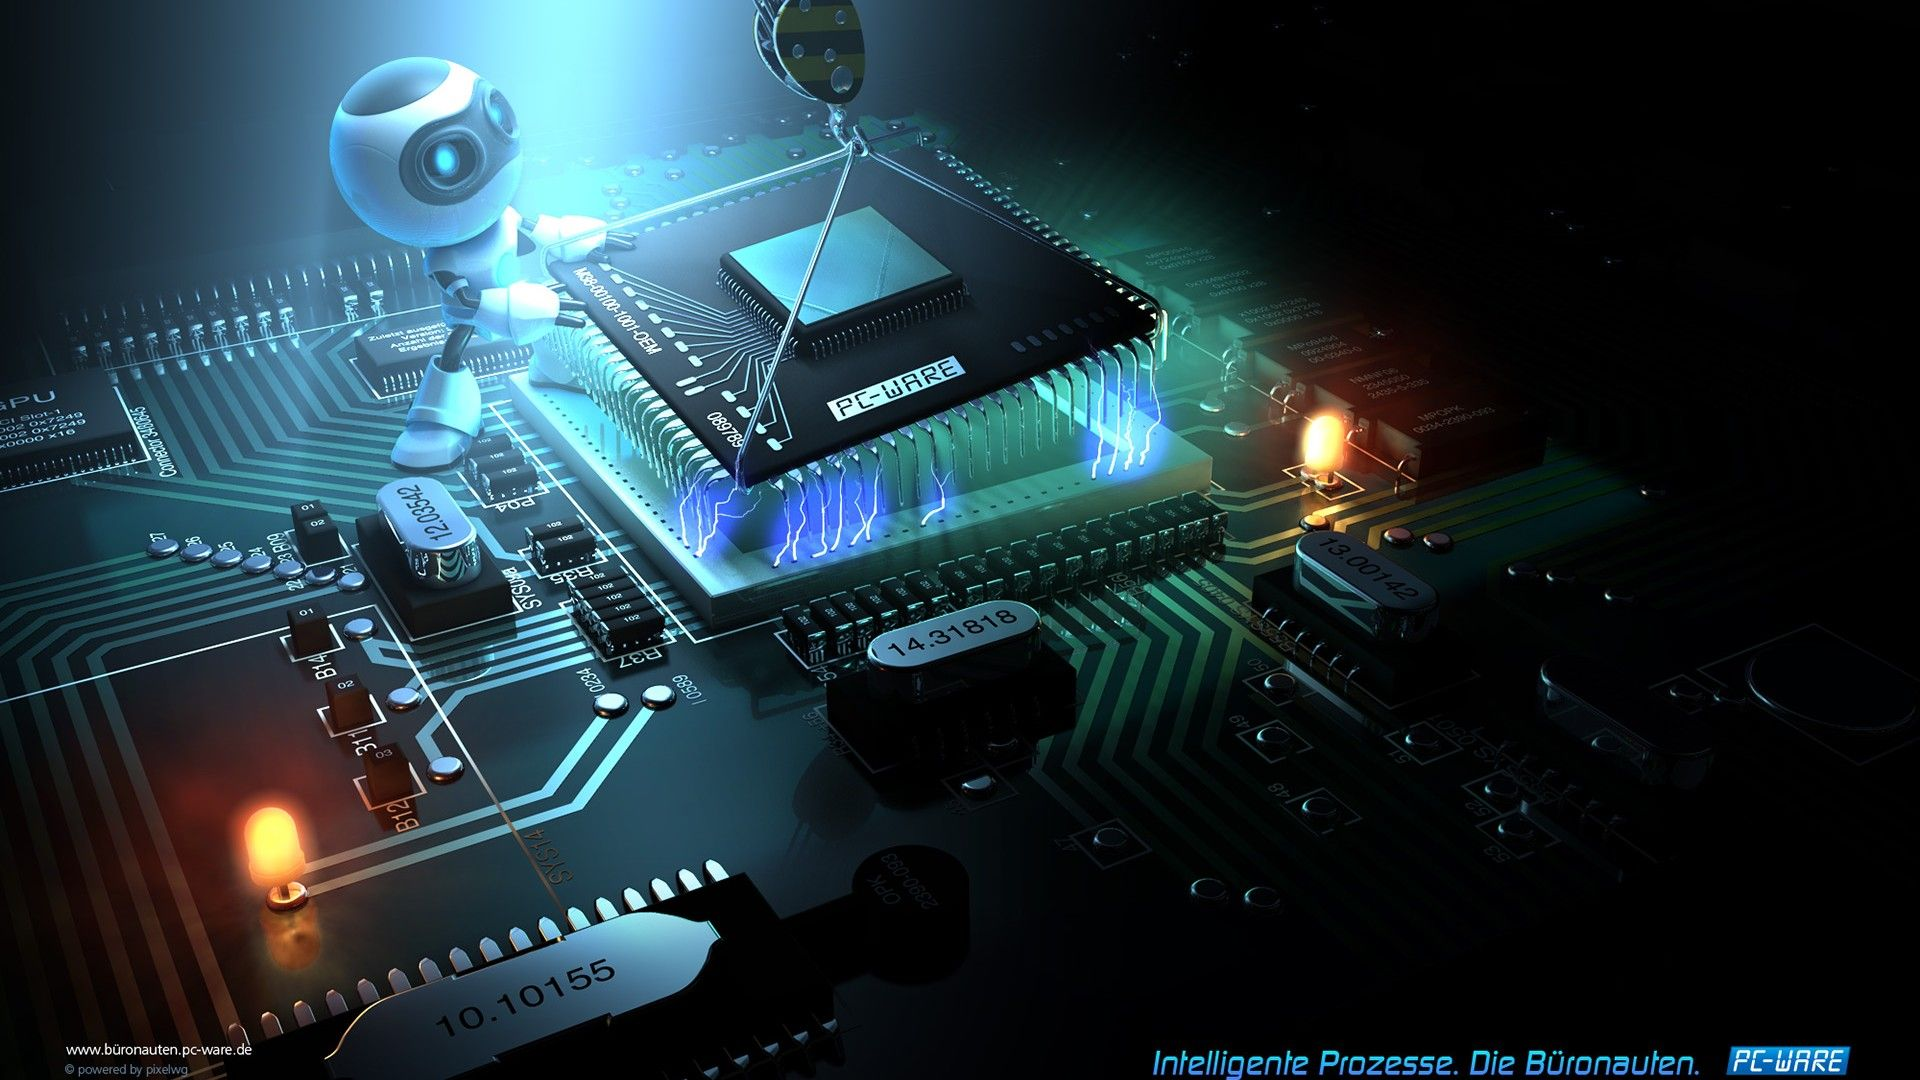
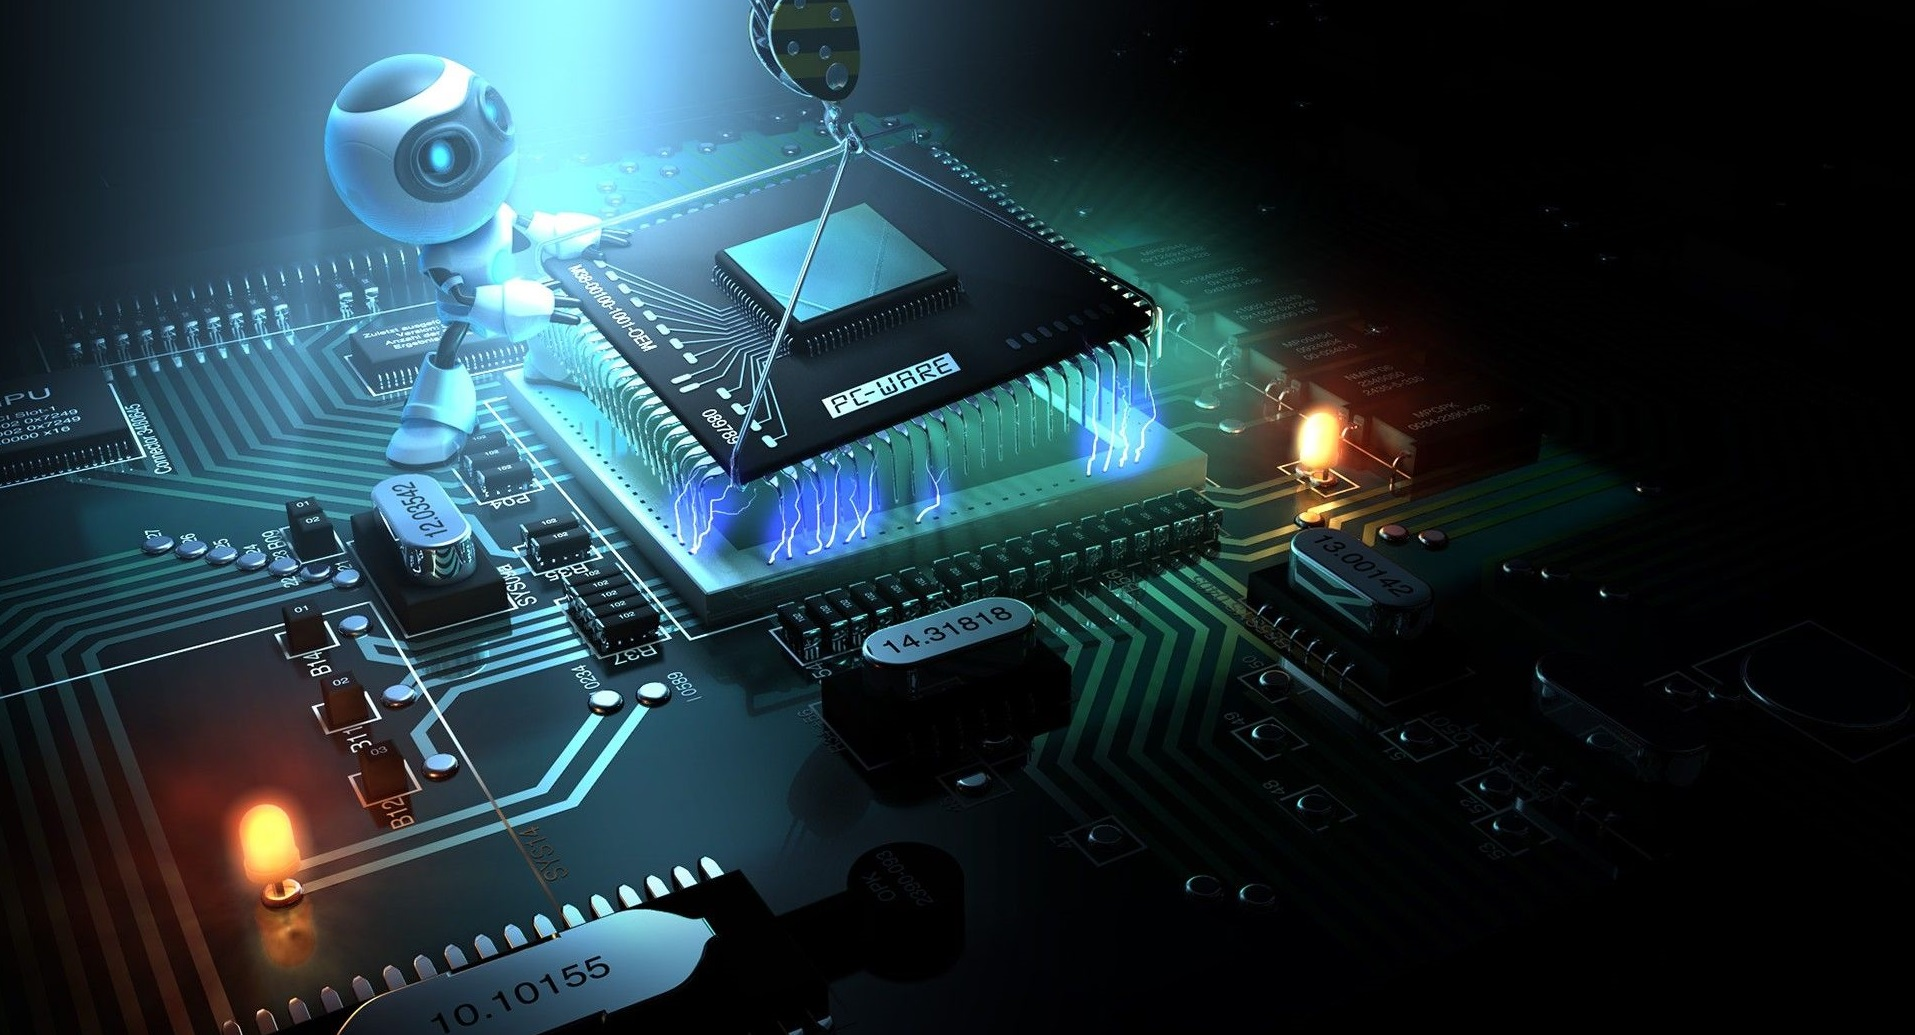
Correcion de errores y mejoras

diff --git a/index.html b/index.html
@@ -9,7 +9,7 @@
 <body>
     <header class="encabezado" id="inicio">
         <div class="contenedor">
-            <img class="imagen" src="img/1.jpg"/>
+            <img class="imagen" src="img/3.jpg"/>
           <div class="texto-encima">Mi información digital</div>
           <div class="texto-encima2">Un lugar donde comprato toda mi experiencia como profecional de tecnología</div>
        </div>
@@ -46,6 +46,7 @@
                 </tr>
             </tbody>
         </table>
+        <header class="datos-adicionales" id="datos-adicionales"></header>
         <div class="datos-adicionales">Datos adicionales</div>
         <img class="presentacion" src="img/Presentación.png"/>
         <div class="Eventos">Comparto detalle de algunos eventos que he asistido y he sido participe a través de los años.</div>
@@ -69,6 +70,7 @@
 
         </thead>
      </ul>>
+     <header class="Recomendaciones" id="Recomendaciones"></header>
      <div class="Recomendaciones">Recomendaciones</div>
      <p class="Parrafo">Incluir la planificación de proyectos de aprendizaje las herramientas tecnológicas que permita a los estudiantes desarrollar el potencial creativo.<br><br>Gestionar dotación de equipos y materiales para lograr el potencial creativo de los estudiantes.<br><br>Utilizar redes sociales weblogs para promover la interación social y la experimentación del propio aprendizaje</p>
      <ul class="vinculo">
@@ -76,8 +78,8 @@
             <nav>
                 <ul><a href="#inicio">Inicio</a></ul>
                 <ul><a href="#Mi-experiencia"> Mi experiencia</a></ul>
-                <ul><a href="#datos"> Datos adicionales</a></ul>
-                <ul><a href="#recomendacion">Recomendaciones</a></ul>
+                <ul><a href="#datos-adicionales"> Datos adicionales</a></ul>
+                <ul><a href="#Recomendaciones">Recomendaciones</a></ul>
             </nav>
         </ul>
         <div class="pie">Todos los derechos reservados @CSTEVEN 2020</div>

diff --git a/css/style.css b/css/style.css
@@ -10,21 +10,22 @@
 }
 .imagen{
     width: 100%;
-    
+    opacity: 0.9;
+    border-radius:150px;
 }
 .texto-encima{
     position: absolute;
     top: 2%; 
     left: 37%;
-    font-size: 350%;
+    font-size: 380%;
     color:white;
 }
 .texto-encima2{
     position: absolute;
-    top: 7%;
-    left: 17%;
+    top: 8%;
+    left: 12%;
     color: white;
-    font-size: 250%;
+    font-size: 300%;
 }
 .texto{
     position: absolute;
